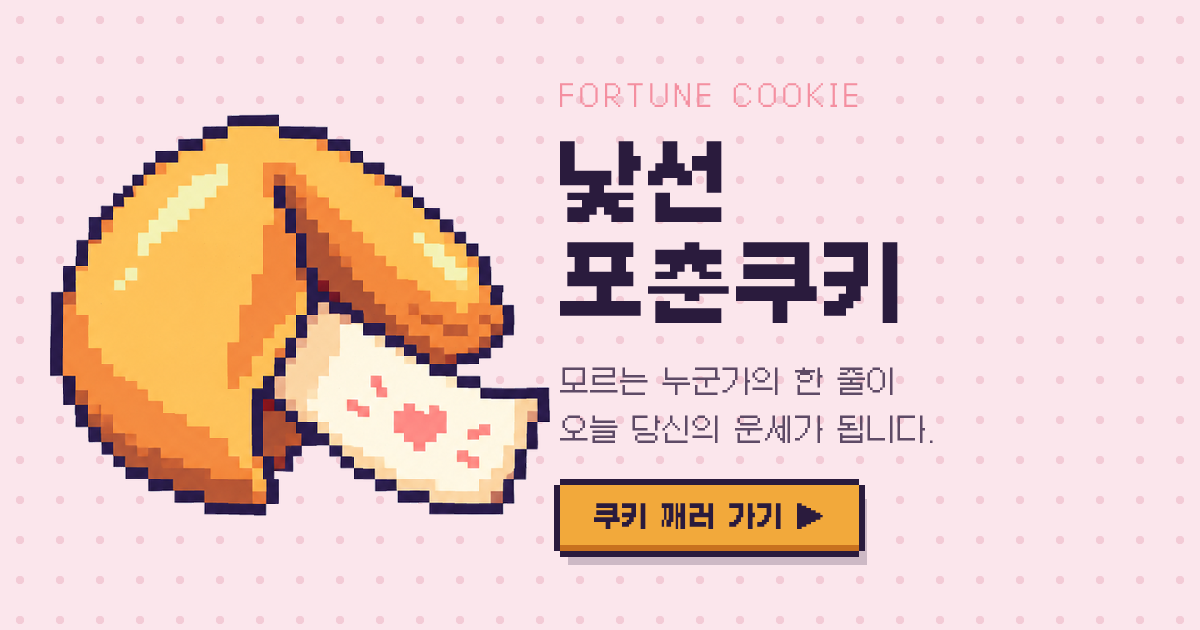
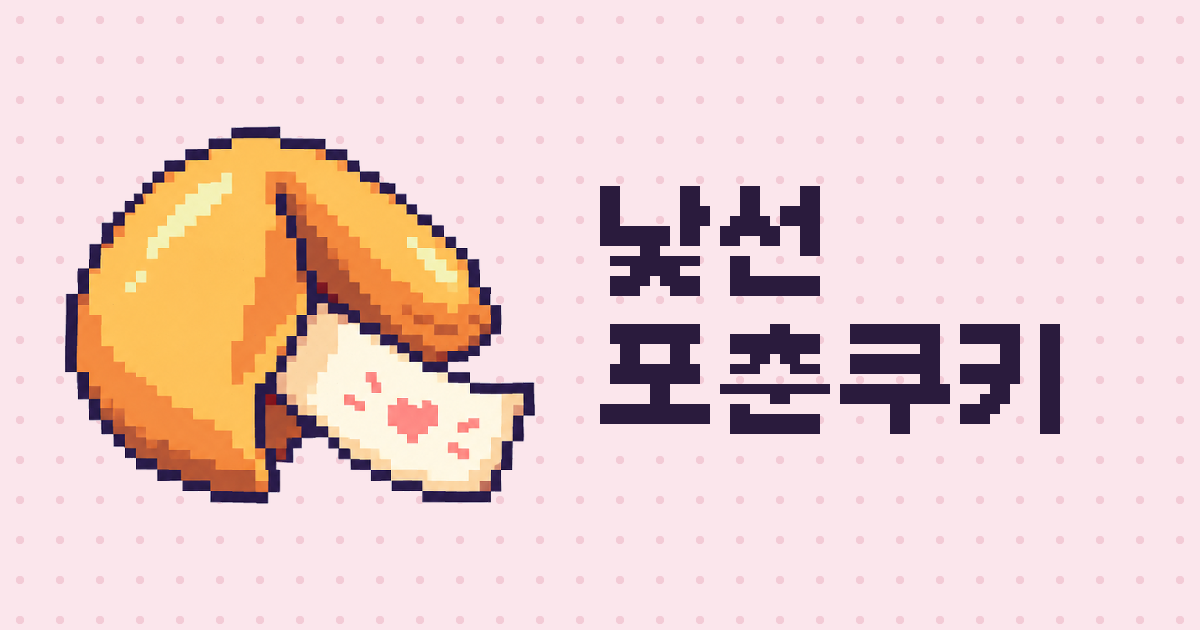
OG 이미지 단순화: 쿠키와 제목만 남김
Claude-Session: https://claude.ai/code/session_019H48sgWEPCeJ89SP3p48pL

diff --git a/index.html b/index.html
@@ -8,12 +8,12 @@
 <meta property="og:url" content="https://fortune-cookie-peach.vercel.app/">
 <meta property="og:title" content="낯선 포춘쿠키">
 <meta property="og:description" content="모르는 누군가의 한 줄이 오늘 당신의 운세가 됩니다.">
-<meta property="og:image" content="https://fortune-cookie-peach.vercel.app/assets/og.png">
+<meta property="og:image" content="https://fortune-cookie-peach.vercel.app/assets/og.png?v=2">
 <meta property="og:image:width" content="1200">
 <meta property="og:image:height" content="630">
 <meta property="og:image:alt" content="픽셀 포춘쿠키와 낯선 포춘쿠키 제목">
 <meta name="twitter:card" content="summary_large_image">
-<meta name="twitter:image" content="https://fortune-cookie-peach.vercel.app/assets/og.png">
+<meta name="twitter:image" content="https://fortune-cookie-peach.vercel.app/assets/og.png?v=2">
 <meta name="theme-color" content="#FBE6EC">
 <link rel="icon" type="image/png" href="assets/favicon.png">
 <link rel="apple-touch-icon" href="assets/favicon-180.png">
